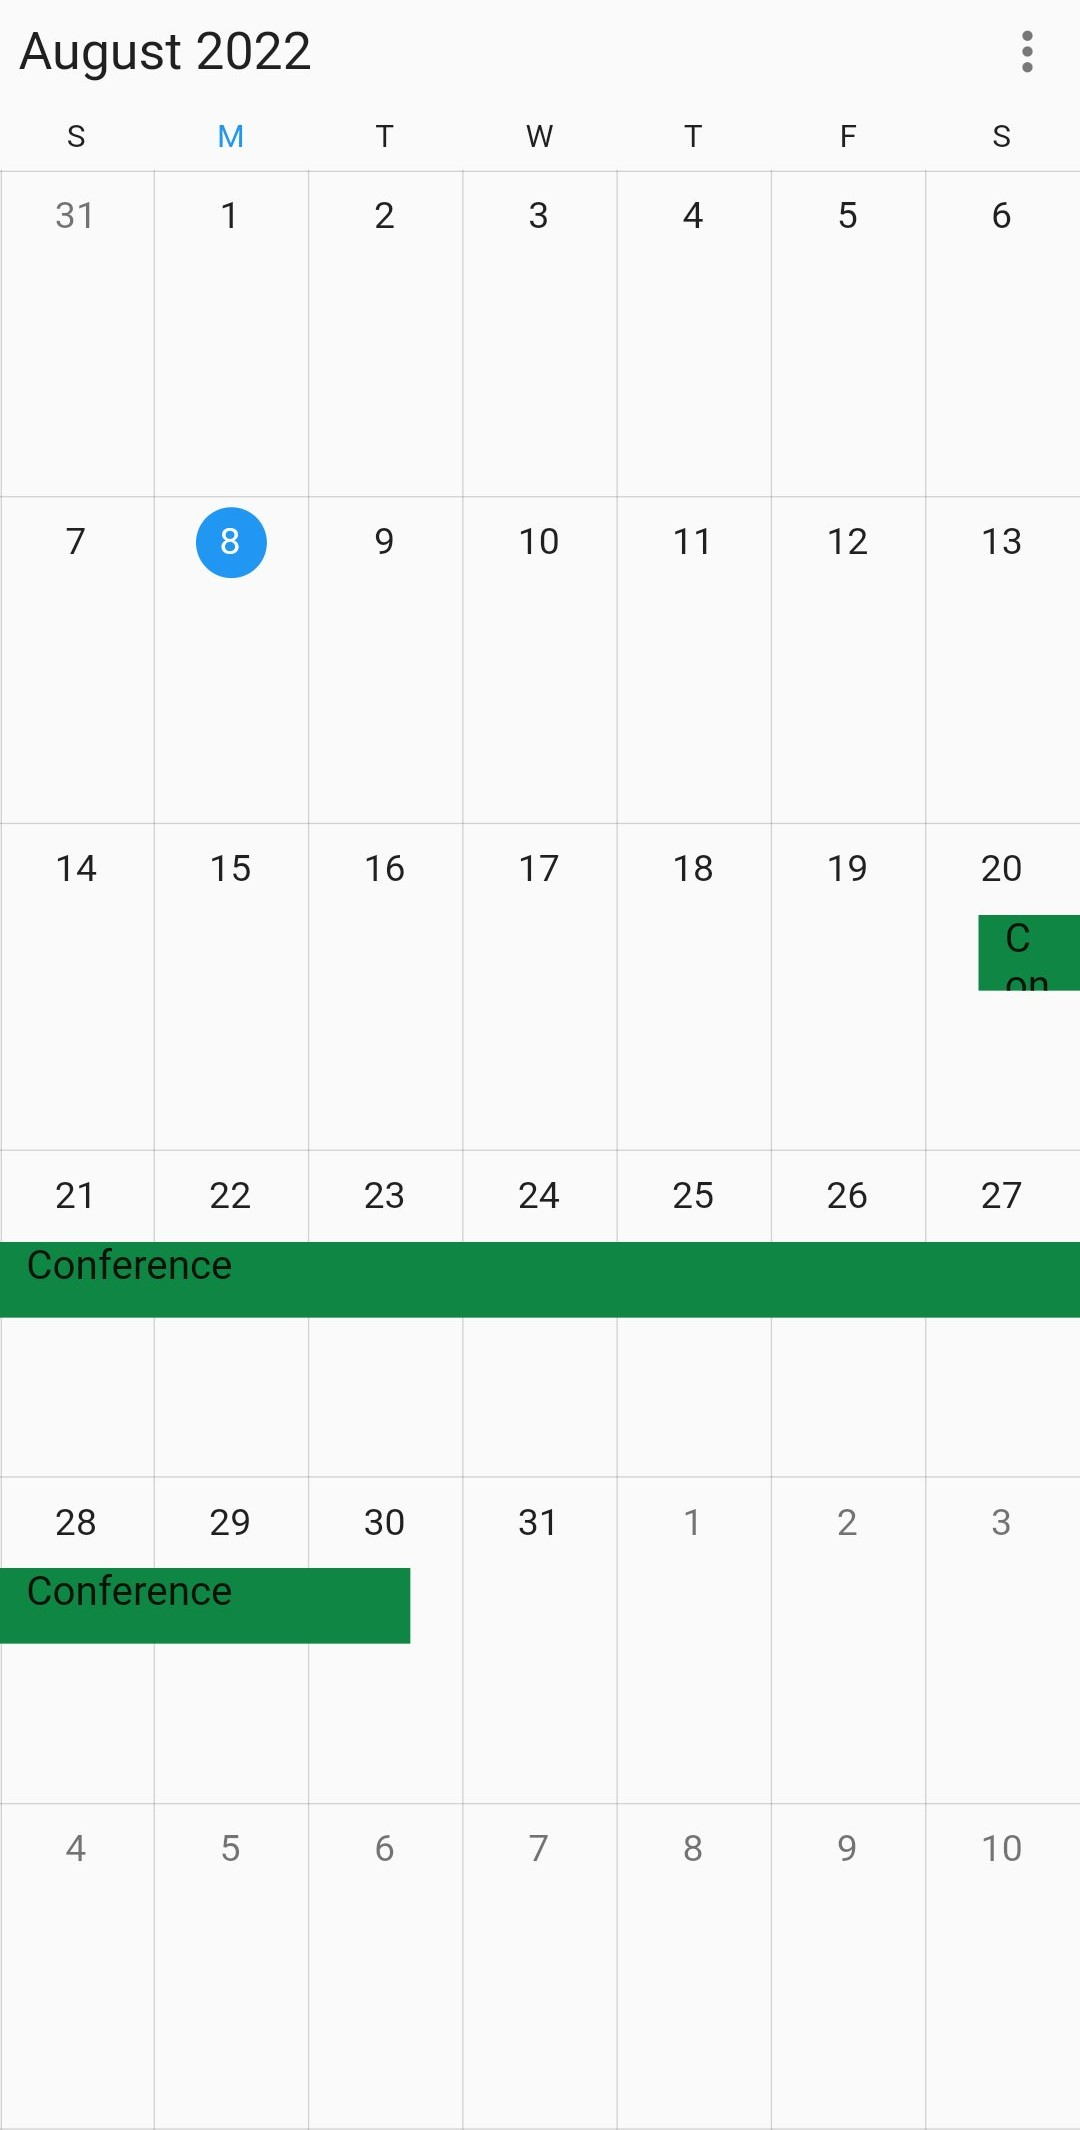
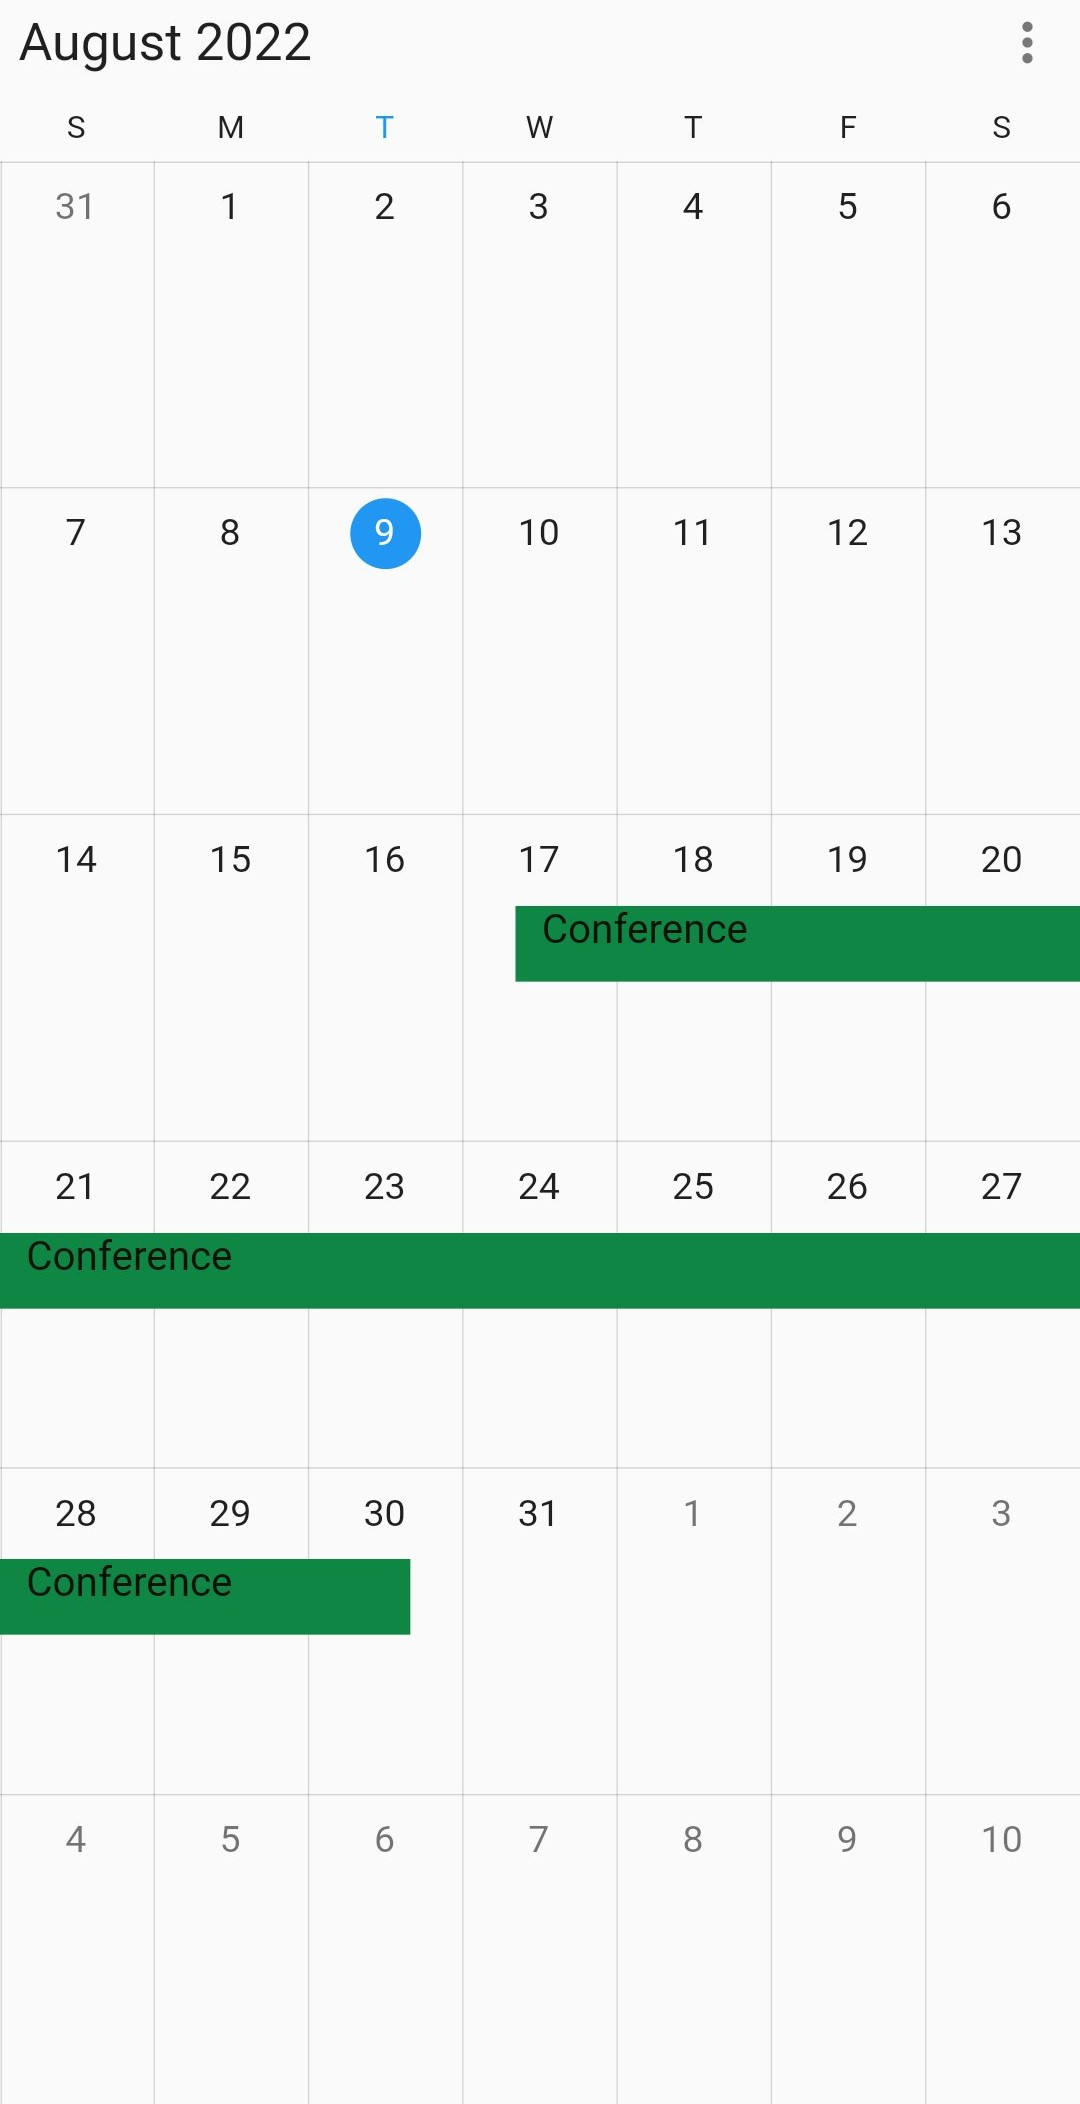
FLUT-6772-BuilderUGImprovement-Image updated.

diff --git a/Flutter/calendar/builders.md b/Flutter/calendar/builders.md
@@ -254,7 +254,7 @@ class MyAppState extends State<MyApp> {
 
 ### How to identify the spanned appointment view date in Flutter Calendar?
 
-By using the [appointmentBuilder](https://pub.dev/documentation/syncfusion_flutter_calendar/latest/calendar/SfCalendar/appointmentBuilder.html) date property we can identify the appointment view start date. For example in month view we have spanned appointment(StartTime - August 20,2022 and EndTime - August 30,2022) and the appointment renders with 3 view, the appointmentBuilder holds the start date (August 20,2022, August 21,2022 and August 28,2022) of the each appointment view.  Please [click here]()to view the sample.
+By using the [appointmentBuilder](https://pub.dev/documentation/syncfusion_flutter_calendar/latest/calendar/SfCalendar/appointmentBuilder.html) date property we can identify the appointment view start date. For example in month view we have spanned appointment(StartTime - August 17,2022 and EndTime - August 30,2022) and the appointment renders with 3 view, the appointmentBuilder holds the start date (August 20,2022, August 21,2022 and August 28,2022) of the each appointment view.  Please [click here]()to view the sample.
 
 ![Appointment builder ](images/builder/appointment-builder-improvement.jpg)
 
